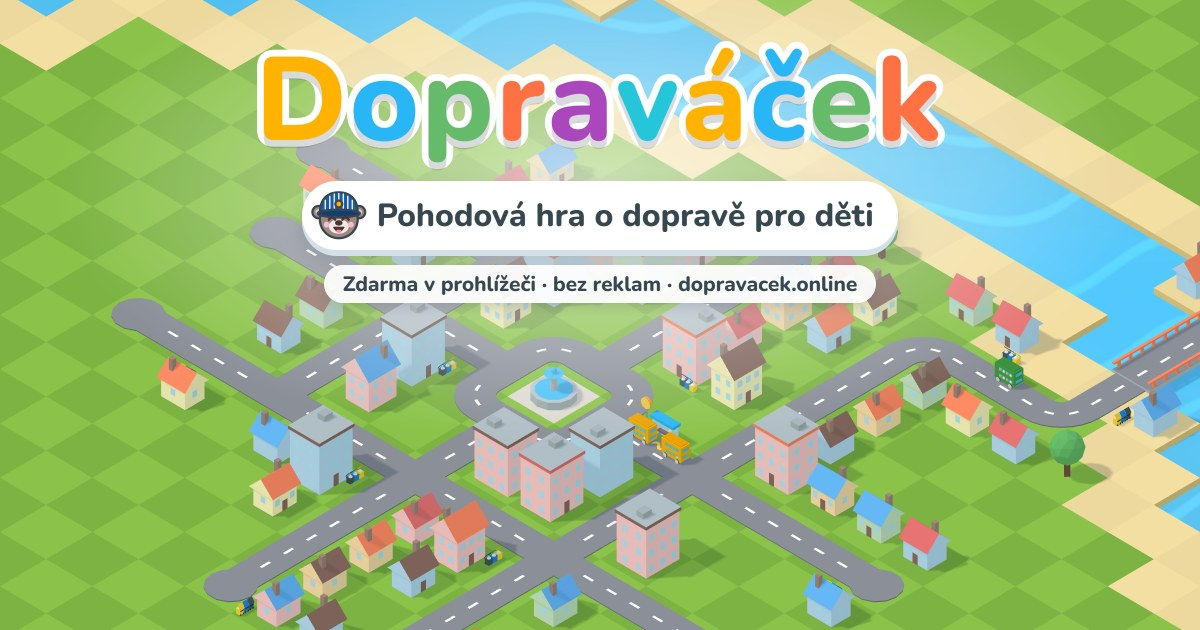
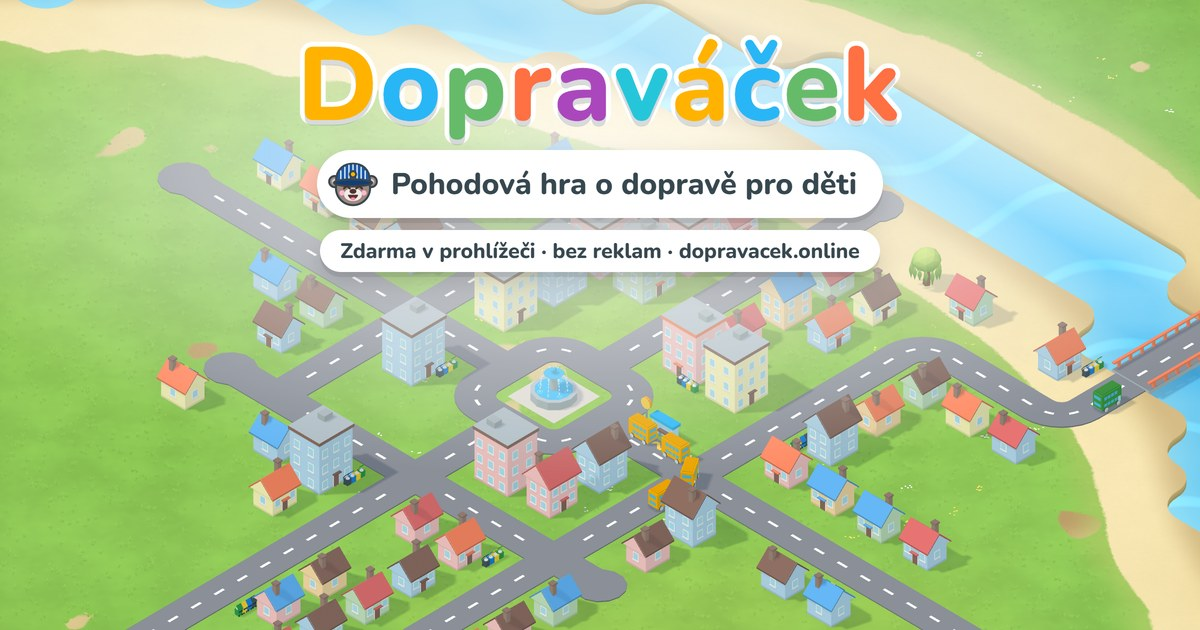
Share picture from today's game: new grass, round banks, trees and houses
The page now points at og-image-v2.jpg, so Facebook and others fetch the
new picture instead of their cached old one; og-image.jpg holds the same
picture for anyone still asking for the old name.

diff --git a/index.html b/index.html
@@ -19,7 +19,7 @@
       property="og:description"
       content="Stav silnice a koleje, rozvážej lidičky autobusy a vláčky a sleduj, jak městečka rostou. Zdarma v prohlížeči, bez reklam a bez registrace."
     />
-    <meta property="og:image" content="https://dopravacek.online/og-image.jpg" />
+    <meta property="og:image" content="https://dopravacek.online/og-image-v2.jpg" />
     <meta property="og:image:type" content="image/jpeg" />
     <meta property="og:image:width" content="1200" />
     <meta property="og:image:height" content="630" />
@@ -34,7 +34,7 @@
             "@type": "VideoGame",
             "name": "Dopraváček",
             "url": "https://dopravacek.online/",
-            "image": "https://dopravacek.online/og-image.jpg",
+            "image": "https://dopravacek.online/og-image-v2.jpg",
             "description": "Pohodová budovatelská hra o dopravě pro děti od 5 let: silnice, autobusy, vláčky, zoo a záchranáři. Hraje se zdarma v prohlížeči, bez reklam a bez registrace.",
             "inLanguage": "cs",
             "genre": ["Budovatelská hra", "Dopravní simulace", "Hra pro děti"],
